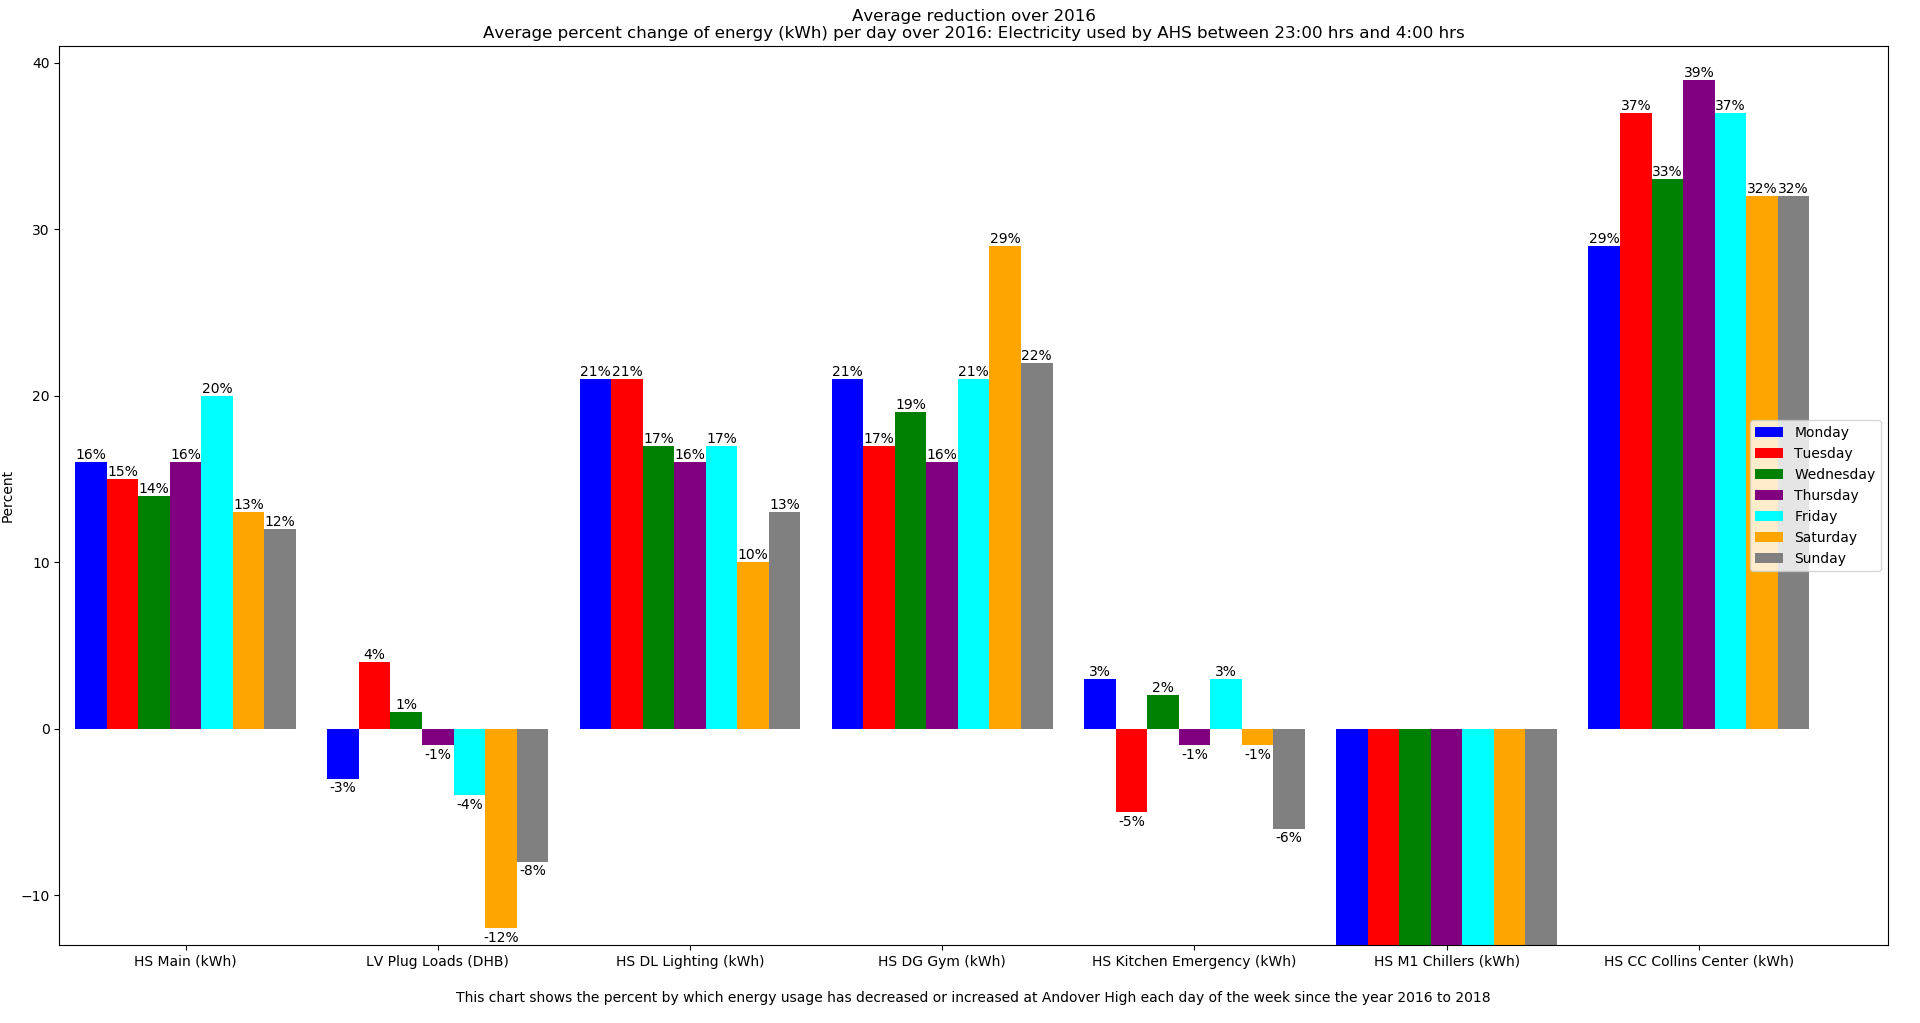
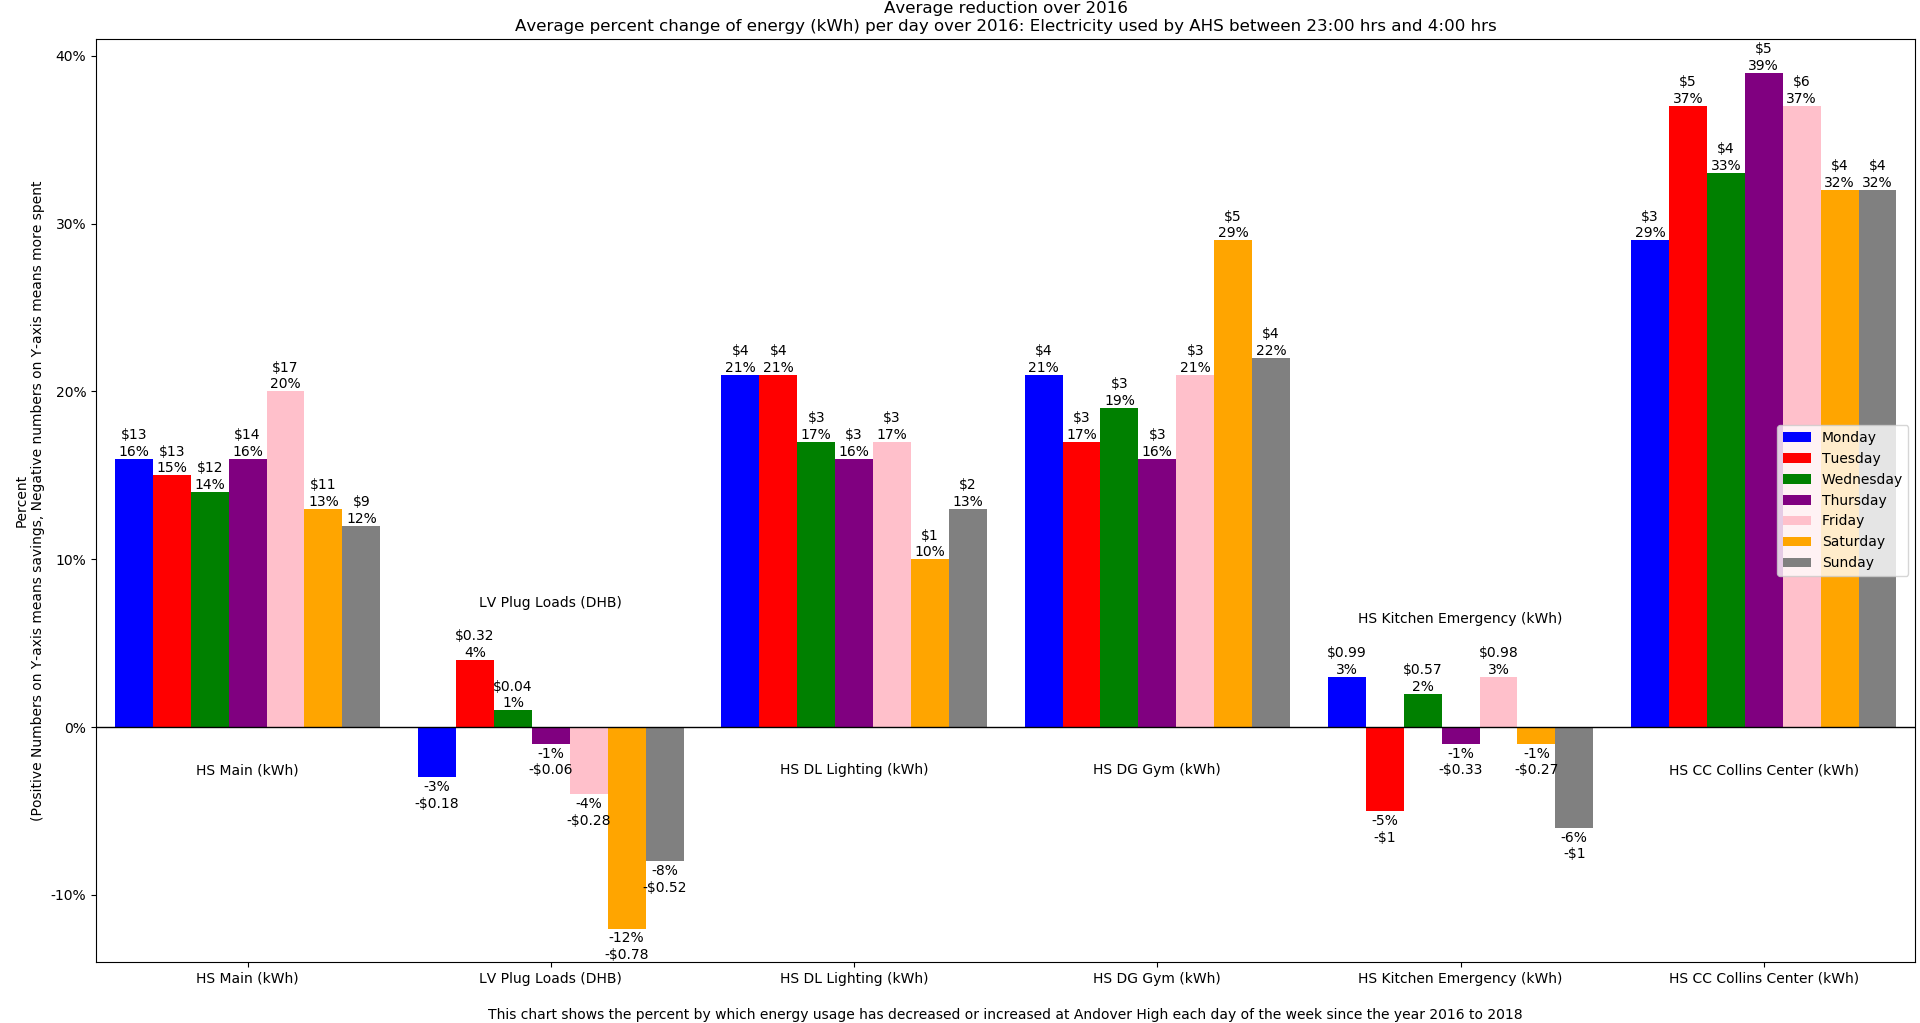
Add files via upload

diff --git a/AHS_Energy_PercentSavings_Chart.py b/AHS_Energy_PercentSavings_Chart.py
@@ -3,33 +3,41 @@ import numpy as np
 import matplotlib.pyplot as plt
 from datetime import datetime
 
+
 ahs_energy_PCT = pd.read_csv(r"C:\Users\shrey\OneDrive\Documents\5 Programming\Energize\Learning Pandas\averageEnergyPCT.csv")
 
-ahs_energy_PCT = ahs_energy_PCT.drop([' ','Days'], axis=1)                                                              #This takes the data and drops the header column and the unnanmed index
+ahs_energy_PCT = ahs_energy_PCT.drop([' ','Days','HS M1 Chillers (kWh)'], axis=1)                                       #This takes the data and drops the header column and the unnanmed index
 ahs_energy_PCT = ahs_energy_PCT.loc[:, ~ahs_energy_PCT.columns.str.contains('^Unnamed')]                                #It then transposes the data
 ahs_energy_PCT = ahs_energy_PCT.transpose()
 
+ahs_energy_DIFF = pd.read_csv(r"C:\Users\shrey\OneDrive\Documents\5 Programming\Energize\Learning Pandas\averageEnergyDIFF.csv")
+
+ahs_energy_DIFF = ahs_energy_DIFF.drop([' ','Days','HS M1 Chillers (kWh)'], axis=1)                                     #This takes the data and drops the header column and the unnanmed index
+ahs_energy_DIFF = ahs_energy_DIFF.loc[:, ~ahs_energy_DIFF.columns.str.contains('^Unnamed')]                                #It then transposes the data
+ahs_energy_DIFF = ahs_energy_DIFF.transpose()
+
 
 freq1= ahs_energy_PCT[0].tolist()                                                                                       #It creates lists from the columns of the data
-x1 = [0,16,32,48,64,80,96]                                                                                              #Then it creates the x location for the columns
+x1 = [0,16,32,48,64,80]                                                                                              #Then it creates the x location for the columns
 
 freq2= ahs_energy_PCT[1].tolist()
-x2 = [2,18,34,50,66,82,98]
+x2 = [2,18,34,50,66,82]
 
 freq3= ahs_energy_PCT[2].tolist()
-x3 = [4,20,36,52,68,84,100]
+x3 = [4,20,36,52,68,84]
 
 freq4= ahs_energy_PCT[3].tolist()
-x4 = [6,22,38,54,70,86,102]
+x4 = [6,22,38,54,70,86]
 
 freq5= ahs_energy_PCT[4].tolist()
-x5 = [8,24,40,56,72,88,104]
+x5 = [8,24,40,56,72,88]
 
 freq6= ahs_energy_PCT[5].tolist()
-x6 = [10,26,42,58,74,90,106]
+x6 = [10,26,42,58,74,90]
 
 freq7= ahs_energy_PCT[6].tolist()
-x7 = [12,28,44,60,76,92,108]
+x7 = [12,28,44,60,76,92]
+
 
 
 width = 2                                                                                                               # width of the bars
@@ -40,7 +48,7 @@ rects1 = ax.bar(x1, freq1, width, color='blue')                                 
 rects2 = ax.bar(x2, freq2, width, color='red')
 rects3 = ax.bar(x3, freq3, width, color='green')
 rects4 = ax.bar(x4, freq4, width, color='purple')
-rects5 = ax.bar(x5, freq5, width, color='cyan')
+rects5 = ax.bar(x5, freq5, width, color='pink')
 rects6 = ax.bar(x6, freq6, width, color='orange')
 rects7 = ax.bar(x7, freq7, width, color='grey')
 
@@ -50,30 +58,56 @@ days = ['Monday', 'Tuesday', 'Wednesday', 'Thursday', 'Friday', 'Saturday', 'Sun
 
 explanation = '\nThis chart shows the percent by which energy usage has decreased or increased at Andover High each day of the week since the year 2016 to 2018'
 
-ax.set_ylim(-13,41)
-ax.set_xlim(-2,114)
-ax.set_ylabel('Percent')                                                                                                #this sets the window size
+from matplotlib.ticker import FuncFormatter
+
+
+
+ax.set_ylim(-14,41)
+ax.set_xlim(-2,94)
+ax.set_ylabel('Percent\n(Positive Numbers on Y-axis means savings, Negative numbers on Y-axis means more spent')        #this sets the window size
 ax.set_xlabel(explanation)
 ax.set_title('Average reduction over 2016\nAverage percent change of energy (kWh) per day over 2016: Electricity used by AHS between 23:00 hrs and 4:00 hrs')                                                                             #this sets the title, the xticks, the y label and the xtick labels
 ax.set_xticks(x4)
-ax.set_xticklabels(('HS Main (kWh)', 'LV Plug Loads (DHB)','HS DL Lighting (kWh)','HS DG Gym (kWh)','HS Kitchen Emergency (kWh)','HS M1 Chillers (kWh)','HS CC Collins Center (kWh)'))
+ax.set_xticklabels(('HS Main (kWh)', 'LV Plug Loads (DHB)','HS DL Lighting (kWh)','HS DG Gym (kWh)','HS Kitchen Emergency (kWh)','HS CC Collins Center (kWh)'))
 ax.legend(days, loc =7)                                                                                                 # it then creates the key index
 
+formatter = FuncFormatter(lambda y, pos: "%d%%" % (y))
+ax.yaxis.set_major_formatter(formatter)
 
-def autolabel(rects):                           #this then annotates the bar plot
+
+def autolabel(rects,y):                           #this then annotates the bar plot
+    count = 0
     for rect in rects:
         height = int(rect.get_height())              #it then reads the height of the bar and prints it above the data
+        a = ahs_energy_DIFF.iat[count,y]
+        count +=1
+
+        if (a>1 or a<-1):
+            a = int(a)
+
         if (height>0):
+            ax.text(rect.get_x() + rect.get_width() / 2., 1 + height,'$' + str(a), ha='center', va='bottom')
             ax.text(rect.get_x() + rect.get_width()/2., 1*height,str(height)+'%',ha='center', va='bottom')
         elif (height<0):
+            a *= -1
             ax.text(rect.get_x() + rect.get_width() / 2.,height-1, str(height) + '%', ha='center', va='bottom')
+            ax.text(rect.get_x() + rect.get_width() / 2., height - 2, '-$' + str(a), ha='center', va='bottom')
 
-autolabel(rects1)                               # this calls the annotations
-autolabel(rects2)
-autolabel(rects3)
-autolabel(rects4)
-autolabel(rects5)
-autolabel(rects6)
-autolabel(rects7)
+autolabel(rects1, 0)                               # this calls the annotations
+autolabel(rects2, 1)
+autolabel(rects3, 2)
+autolabel(rects4, 3)
+autolabel(rects5, 4)
+autolabel(rects6, 5)
+autolabel(rects7, 6)
+
+plt.axhline(y=0, xmin=-2, xmax=114, linewidth=1, color = 'k')
+ax.text(6, -3, 'HS Main (kWh)', ha='center', va='bottom')
+ax.text(22, 7, 'LV Plug Loads (DHB)', ha='center', va='bottom')
+ax.text(38, -3, 'HS DL Lighting (kWh)', ha='center', va='bottom')
+ax.text(54, -3,'HS DG Gym (kWh)', ha='center', va='bottom')
+ax.text(70, 6, 'HS Kitchen Emergency (kWh)', ha='center', va='bottom')
+ax.text(86, -3, 'HS CC Collins Center (kWh)', ha='center', va='bottom')
+
 plt.show()
 

diff --git a/AHS_HS_MAIN_EnergySavings_Chart.py b/AHS_HS_MAIN_EnergySavings_Chart.py
@@ -2,6 +2,7 @@ import pandas as pd
 import numpy as np
 import matplotlib.pyplot as plt
 from datetime import datetime
+import matplotlib.ticker as mtick
 
 ahs_energy_DIFF = pd.read_csv(r"C:\Users\shrey\OneDrive\Documents\5 Programming\Energize\Learning Pandas\averageEnergyDIFF.csv")
 freq = ahs_energy_DIFF['HS Main (kWh)'].tolist() #This takes the data of the price changes and makes the column that are to be plotted into lists
@@ -21,6 +22,10 @@ ax.set_xlabel(explanation)
 ax.set_title('HS Main (kWh)\nAverage savings per day over 2016: Electricity used by AHS between 23:00 hrs and 4:00 hrs')
 ax.set_xticks(x)
 ax.set_xticklabels(('Monday', 'Tuesday', 'Wednesday', 'Thursday', 'Friday', 'Saturday', 'Sunday'))
+fmt = '${x:,.0f}'
+tick = mtick.StrMethodFormatter(fmt)
+ax.yaxis.set_major_formatter(tick)
+
 
 def autolabel(rects):                           #this then annotates the bar plot
     for rect in rects:
@@ -30,4 +35,3 @@ def autolabel(rects):                           #this then annotates the bar plo
 autolabel(rects1)                               # this calls the annotations
 plt.show()
 
-'''Andover High has saved $13.41 each day of the year since 2016'''
